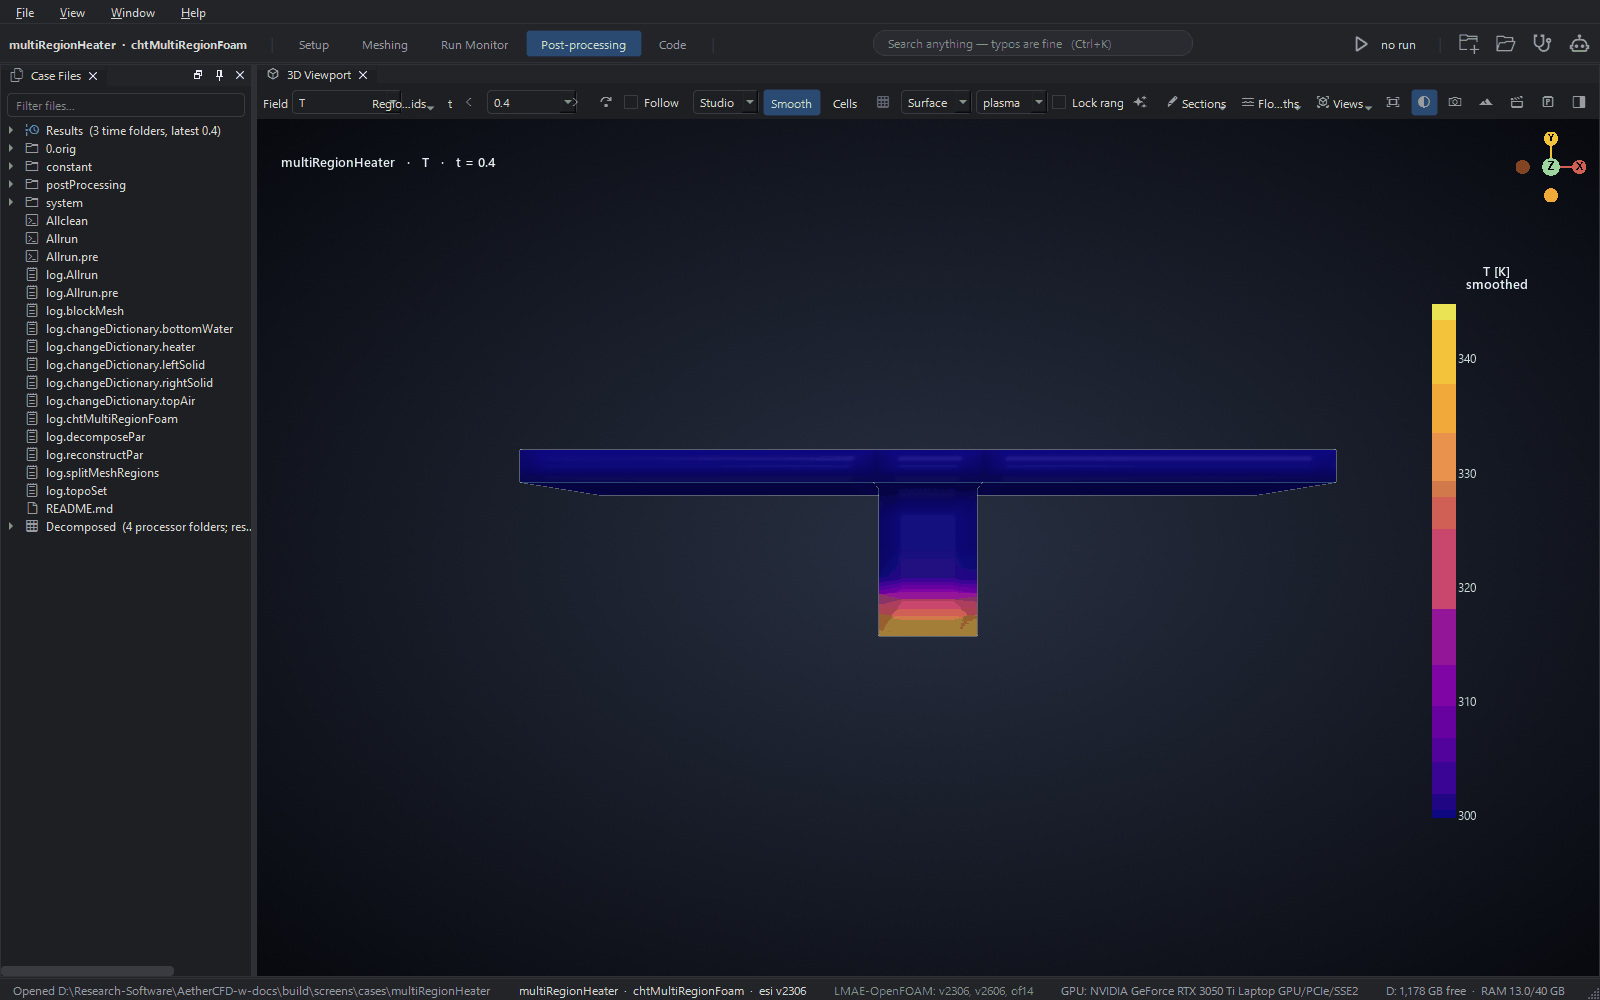
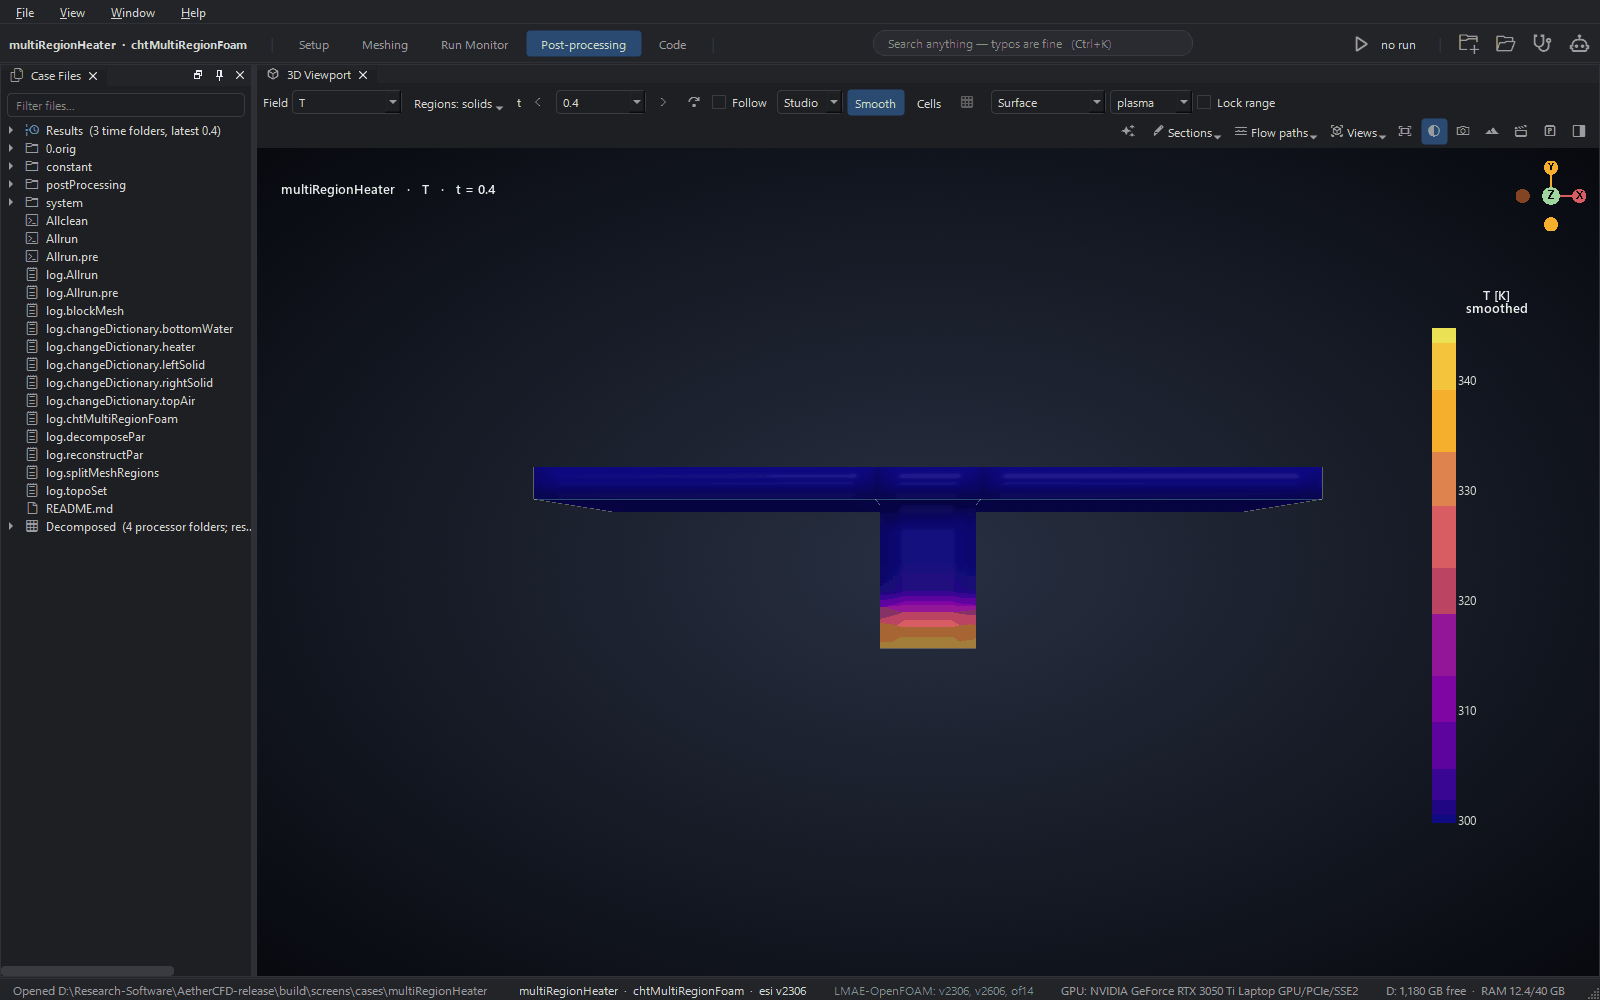
Screenshots from the final code, README and changelog brought up to date
All 12 images regenerated by scripts/make_screenshots.py after the viewport
and PINN fixes (the PINN image is now a real GPU result). The script ends
with TerminateProcess like the app: os._exit crashed in QtWebEngine's DLL
detach after the images were saved. PINN tab: buttons on two rows, 'final'
status line. README: current test counts, two known limits.

diff --git a/src/aethercfd/studio/panels/analysis/panel.py b/src/aethercfd/studio/panels/analysis/panel.py
@@ -367,11 +367,14 @@ class AnalysisPanel(Panel):
         self.p_compare.clicked.connect(self.compare_pinn)
         r.addWidget(self.p_go)
         r.addWidget(self.p_stop)
-        r.addWidget(self.p_write)
-        r.addWidget(self.p_compare)
         r.addWidget(self.p_recheck)
         r.addStretch(1)
         lay.addLayout(r)
+        r2 = QHBoxLayout()  # a second row: five buttons in one row were cut off in a side dock
+        r2.addWidget(self.p_write)
+        r2.addWidget(self.p_compare)
+        r2.addStretch(1)
+        lay.addLayout(r2)
         self.p_out = QTextBrowser()
         self.p_out.setMaximumHeight(160)
         lay.addWidget(self.p_out)
@@ -543,7 +546,8 @@ class AnalysisPanel(Panel):
                                  name="held-out RMSE/std")
             last = h[-1]
             held = f" · held-out {val[-1]:.3g}" if np.isfinite(val[-1]) else ""
-            self.p_status.setText(f"{last['stage']} step {last['step']} · data {last['data']:.3g} · physics "
+            where = "final" if last["stage"] == "final" else f"{last['stage']} step {last['step']}"
+            self.p_status.setText(f"{where} · data {last['data']:.3g} · physics "
                                   f"{last['pde']:.3g}{held} · {last['t']:.0f} s")
         if pr["done"]:
             self.p_timer.stop()

diff --git a/scripts/make_screenshots.py b/scripts/make_screenshots.py
@@ -808,4 +808,14 @@ def main(argv: list[str] | None = None) -> int:
 if __name__ == "__main__":
     code = main()
     sys.stdout.flush()
-    os._exit(code)  # Qt/WebEngine teardown at interpreter exit can hang (see aethercfd.studio.__main__.run)
+    sys.stderr.flush()
+    if sys.platform == "win32":
+        # as aethercfd.studio.__main__.run does: os._exit still runs DLL detach, where QtWebEngine's Chromium
+        # can crash or hang (seen here: an access violation after every image was saved)
+        import ctypes
+
+        k32 = ctypes.windll.kernel32
+        k32.GetCurrentProcess.restype = ctypes.c_void_p
+        k32.TerminateProcess.argtypes = [ctypes.c_void_p, ctypes.c_uint]
+        k32.TerminateProcess(k32.GetCurrentProcess(), code)
+    os._exit(code)

diff --git a/README.md b/README.md
@@ -74,7 +74,7 @@ as numpy arrays, and Measurements compares experiment with simulation.
 
 ![POD of the velocity magnitude over the three saved pitzDaily times](docs/screenshots/09-analysis-pod.png)
 
-![The PINN tab before training: the PyTorch environment it found, the physics, the data and the training settings](docs/screenshots/10-analysis-pinn.png)
+![The PINN tab after a 36 s Navier-Stokes fit to 400 pitzDaily cells on the GPU, with its error on the cells it did not train on](docs/screenshots/10-analysis-pinn.png)
 
 ### The copilot and its approval rule
 
@@ -158,7 +158,7 @@ Copilot
   (journal, run records, provenance) sit in a `.aethercfd` folder inside the case.
 - Dictionary edits are lossless. An edit changes the value it targets and keeps every other byte, comment and
   blank line ([ADR 0002](docs/adr/0002-dictionary-roundtrip.md)). A corpus test round-trips every OpenFOAM file
-  in the owner's case collection.
+  in our case collection.
 - Every change is a plan first. A command shows its exact file diffs and shell commands, waits for approval,
   checks that the files did not change underneath, applies, and writes a journal entry with who, what, why and
   the diff. Journal entries can be reverted. Nothing is hard-deleted: removed files go to the project trash.
@@ -168,10 +168,10 @@ Copilot
   thread's stack, native faults go to `crash/faulthandler.log`, and an unhandled error is shown in the app and
   logged in `studio.log` (all in `%LOCALAPPDATA%\AetherCFD\Cache`).
 - Automated tests run on GitHub Actions for every push to `main` and every pull request: ruff and the import
-  contracts on Ubuntu, then the unit and studio tests and `aethercfd doctor` on Windows. This branch has 609
-  unit tests and 134 studio tests in that set, plus 28 live WSL tests and one corpus test that need OpenFOAM or
-  the owner's cases and run on his PC. The last CI run on GitHub, on 4 November 2026, passed 359 unit and 106
-  studio tests. The tests added since then have not run on GitHub yet.
+  contracts on Ubuntu, then the unit and studio tests and `aethercfd doctor` on Windows. That set holds 627
+  unit tests and 143 studio tests. On GitHub the PINN tests that train a real network are skipped, because
+  the runners have no PyTorch environment; they run on the development PC. Another 28 live WSL tests and one
+  corpus test need OpenFOAM or our own case collection and also run there.
 
 ## Known limits
 
@@ -182,6 +182,11 @@ Copilot
   turbulent 3-D jet of the REV B.1 case the temperature reconstruction reached only RMSE/std 0.78 to 0.81,
   about as good as predicting the mean everywhere.
 - The `--cpu-only` build of `packaging/build.py` is experimental and untested.
+- One native crash is not explained. In one of three full runs of the studio tests on the development PC,
+  VTK's OpenFOAM reader raised an access violation while it loaded a decomposed 1M-cell case. The same test
+  passed in every rerun. `crash/faulthandler.log` records such a crash with the stack of every thread.
+- The 3D view recovers a lost OpenGL context with code that depends on internals of pyvistaqt 0.13.1. Check
+  `tests/studio/test_viewport_gl_recovery.py` before you upgrade pyvistaqt.
 - GPU linear solvers for OpenFOAM are not included.
 
 ## Documentation
@@ -202,7 +207,7 @@ uv sync --locked
 uv run aethercfd-studio [case]                    # run from source (--reset-layout ignores saved layouts)
 uv run pytest tests/unit tests/studio -m "not wsl and not wsl_slow and not corpus and not gl"   # what CI runs
 uv run pytest tests/wsl -m "wsl or wsl_slow"      # live WSL tests (scratch copies only)
-uv run pytest tests/corpus -m corpus              # lossless round-trip over the owner's case collection
+uv run pytest tests/corpus -m corpus              # lossless round-trip over our case collection
 uv run ruff check src tests packaging scripts     # lint
 uv run lint-imports                               # import contracts
 uv run python -m aethercfd.studio <case> --smoke  # GUI smoke run with screenshots in build/smoke

diff --git a/CHANGELOG.md b/CHANGELOG.md
@@ -89,6 +89,25 @@ Three hardening passes on top of the features below, merged in `release/hardenin
 - The QoI report test no longer reads the user's settings.
 - The sweep drives the viewport at the latest time folder that holds files.
 
+#### After the first review of the merged branch
+
+- `aethercfd-cli ml-setup` runs the PINN environment setup from the CLI, so the installed app can do it too
+  (it has no `scripts` folder). The no-environment message names the command that fits how the app started.
+- PINN runs on the CPU with `CUDA_VISIBLE_DEVICES=-1` no longer die mid-run. The CUDA build of PyTorch
+  2.14.1 crashed in its backward pass with that value (10 of 11 test runs). The worker now gets an empty
+  value, which hides the GPU without the crash. A native crash inside PyTorch is now named as one, with its
+  exit code and stack, where the tab used to say "killed, or out of memory".
+- The 3D view recovers when it loses its OpenGL context. Switching perspectives (Post to Setup, Setup to
+  Meshing) could leave it blank for good. The recovery depends on internals of pyvistaqt 0.13.1.
+- The viewport toolbar wraps onto more rows in groups, so no label is cut at any width from 600 px up.
+- Showcase on a multi-region case cuts a plane through every selected region, or shows their surfaces when
+  no single plane passes through all of them. Before, the solids view of multiRegionHeater missed two of them.
+- The camera frames what is shown again after a stage, a view option or a resize changes it, unless you
+  moved the camera yourself.
+- `aethercfd doctor` reports a `settings.toml` that had to be recovered.
+- The PINN tab's buttons sit on two rows, so none is cut in a side dock.
+- `scripts/make_screenshots.py` regenerates every image in `docs/screenshots` from the running app.
+
 ### Added
 
 - **Several versions of one fork side by side (ESI v2306 + v2606).** Tested on LMAE-OpenFOAM with v2606 (2606.0~rc2
